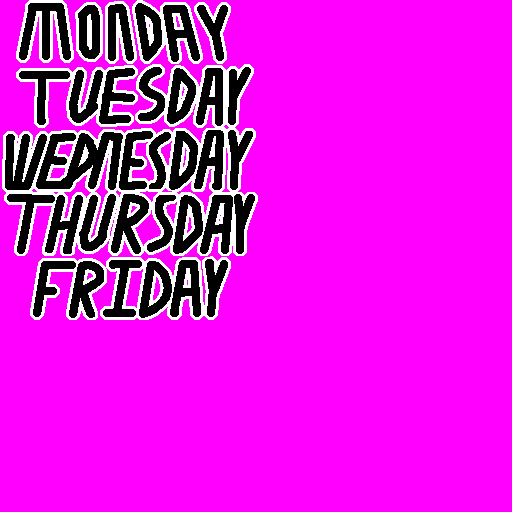
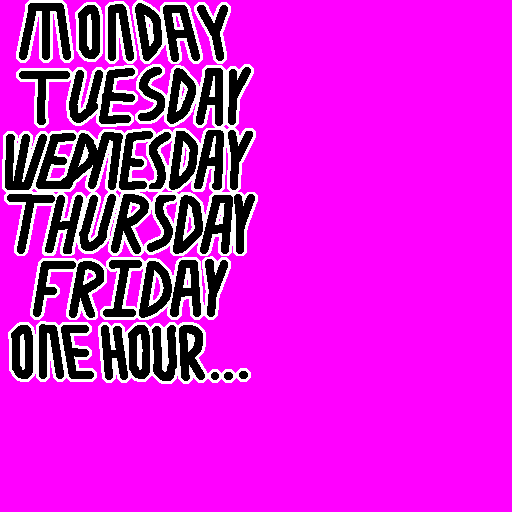
Add one hour left timer

Changed region(s): [[0.0, 0.625, 0.5, 0.75]]

diff --git a/main.js b/main.js
@@ -2183,7 +2183,10 @@ class Clock {
     const endHour = 5 + 12;
     this.workdayMinutes = (endHour - this.startHour) * 60;
     this.workdayFrames = 2 * 60 * 60;  // 2 minutes
-    this.framesPerMinute = this.workdayMinutes / this.workdayFrames;
+    this.minutesPerFrame = this.workdayMinutes / this.workdayFrames;
+
+    this.framesPerHour =
+        Math.floor(this.workdayFrames / this.workdayMinutes * 60);
   }
 
   start() {
@@ -2194,6 +2197,11 @@ class Clock {
     if (!this.running) return;
 
     this.frames++;
+    // One hour left
+    if (this.frames + this.framesPerHour == this.workdayFrames) {
+      ui.day.start(5);
+    }
+
     if (this.frames >= this.workdayFrames) {
       // TODO end of day
       this.running = false;
@@ -2213,7 +2221,7 @@ class Clock {
   toString() {
     const dayNames = ['Monday', 'Tuesday', 'Wednesday', 'Thursday', 'Friday'];
 
-    let totalMinutes = Math.floor(this.frames * this.framesPerMinute);
+    let totalMinutes = Math.floor(this.frames * this.minutesPerFrame);
     let padInt = (num, len, chr) => num.toString().padStart(len, chr);
     let min = totalMinutes % 60;
     let hour = this.startHour + (Math.floor(totalMinutes / 60)) % 24;
